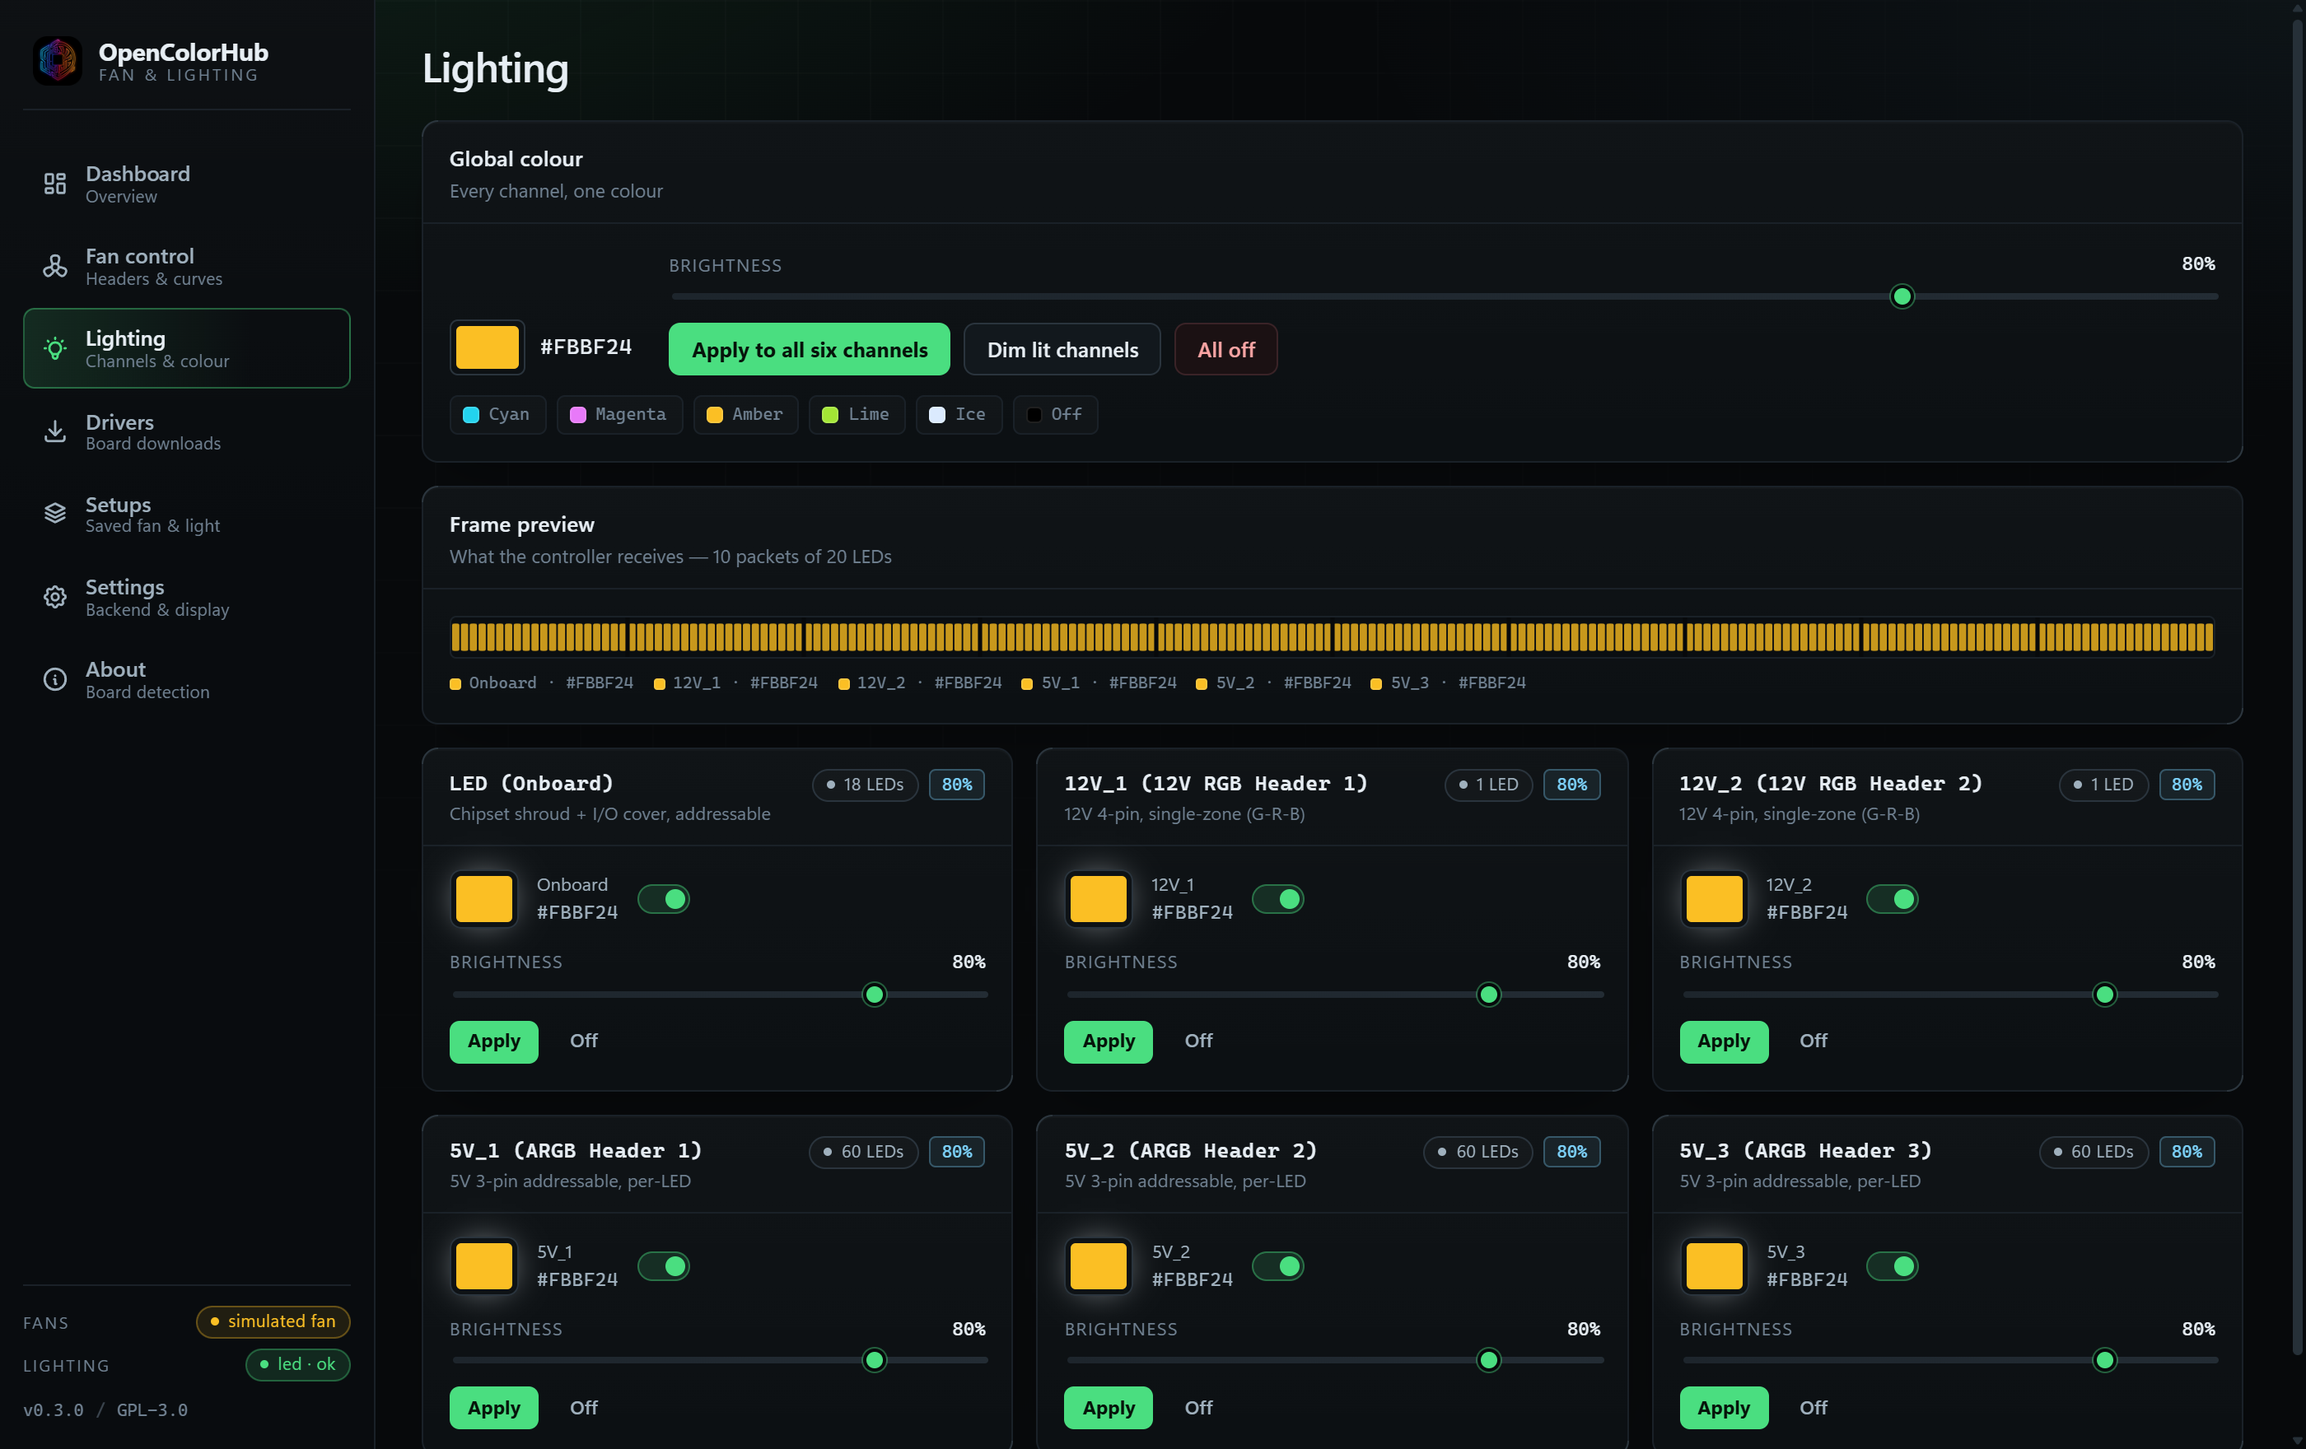
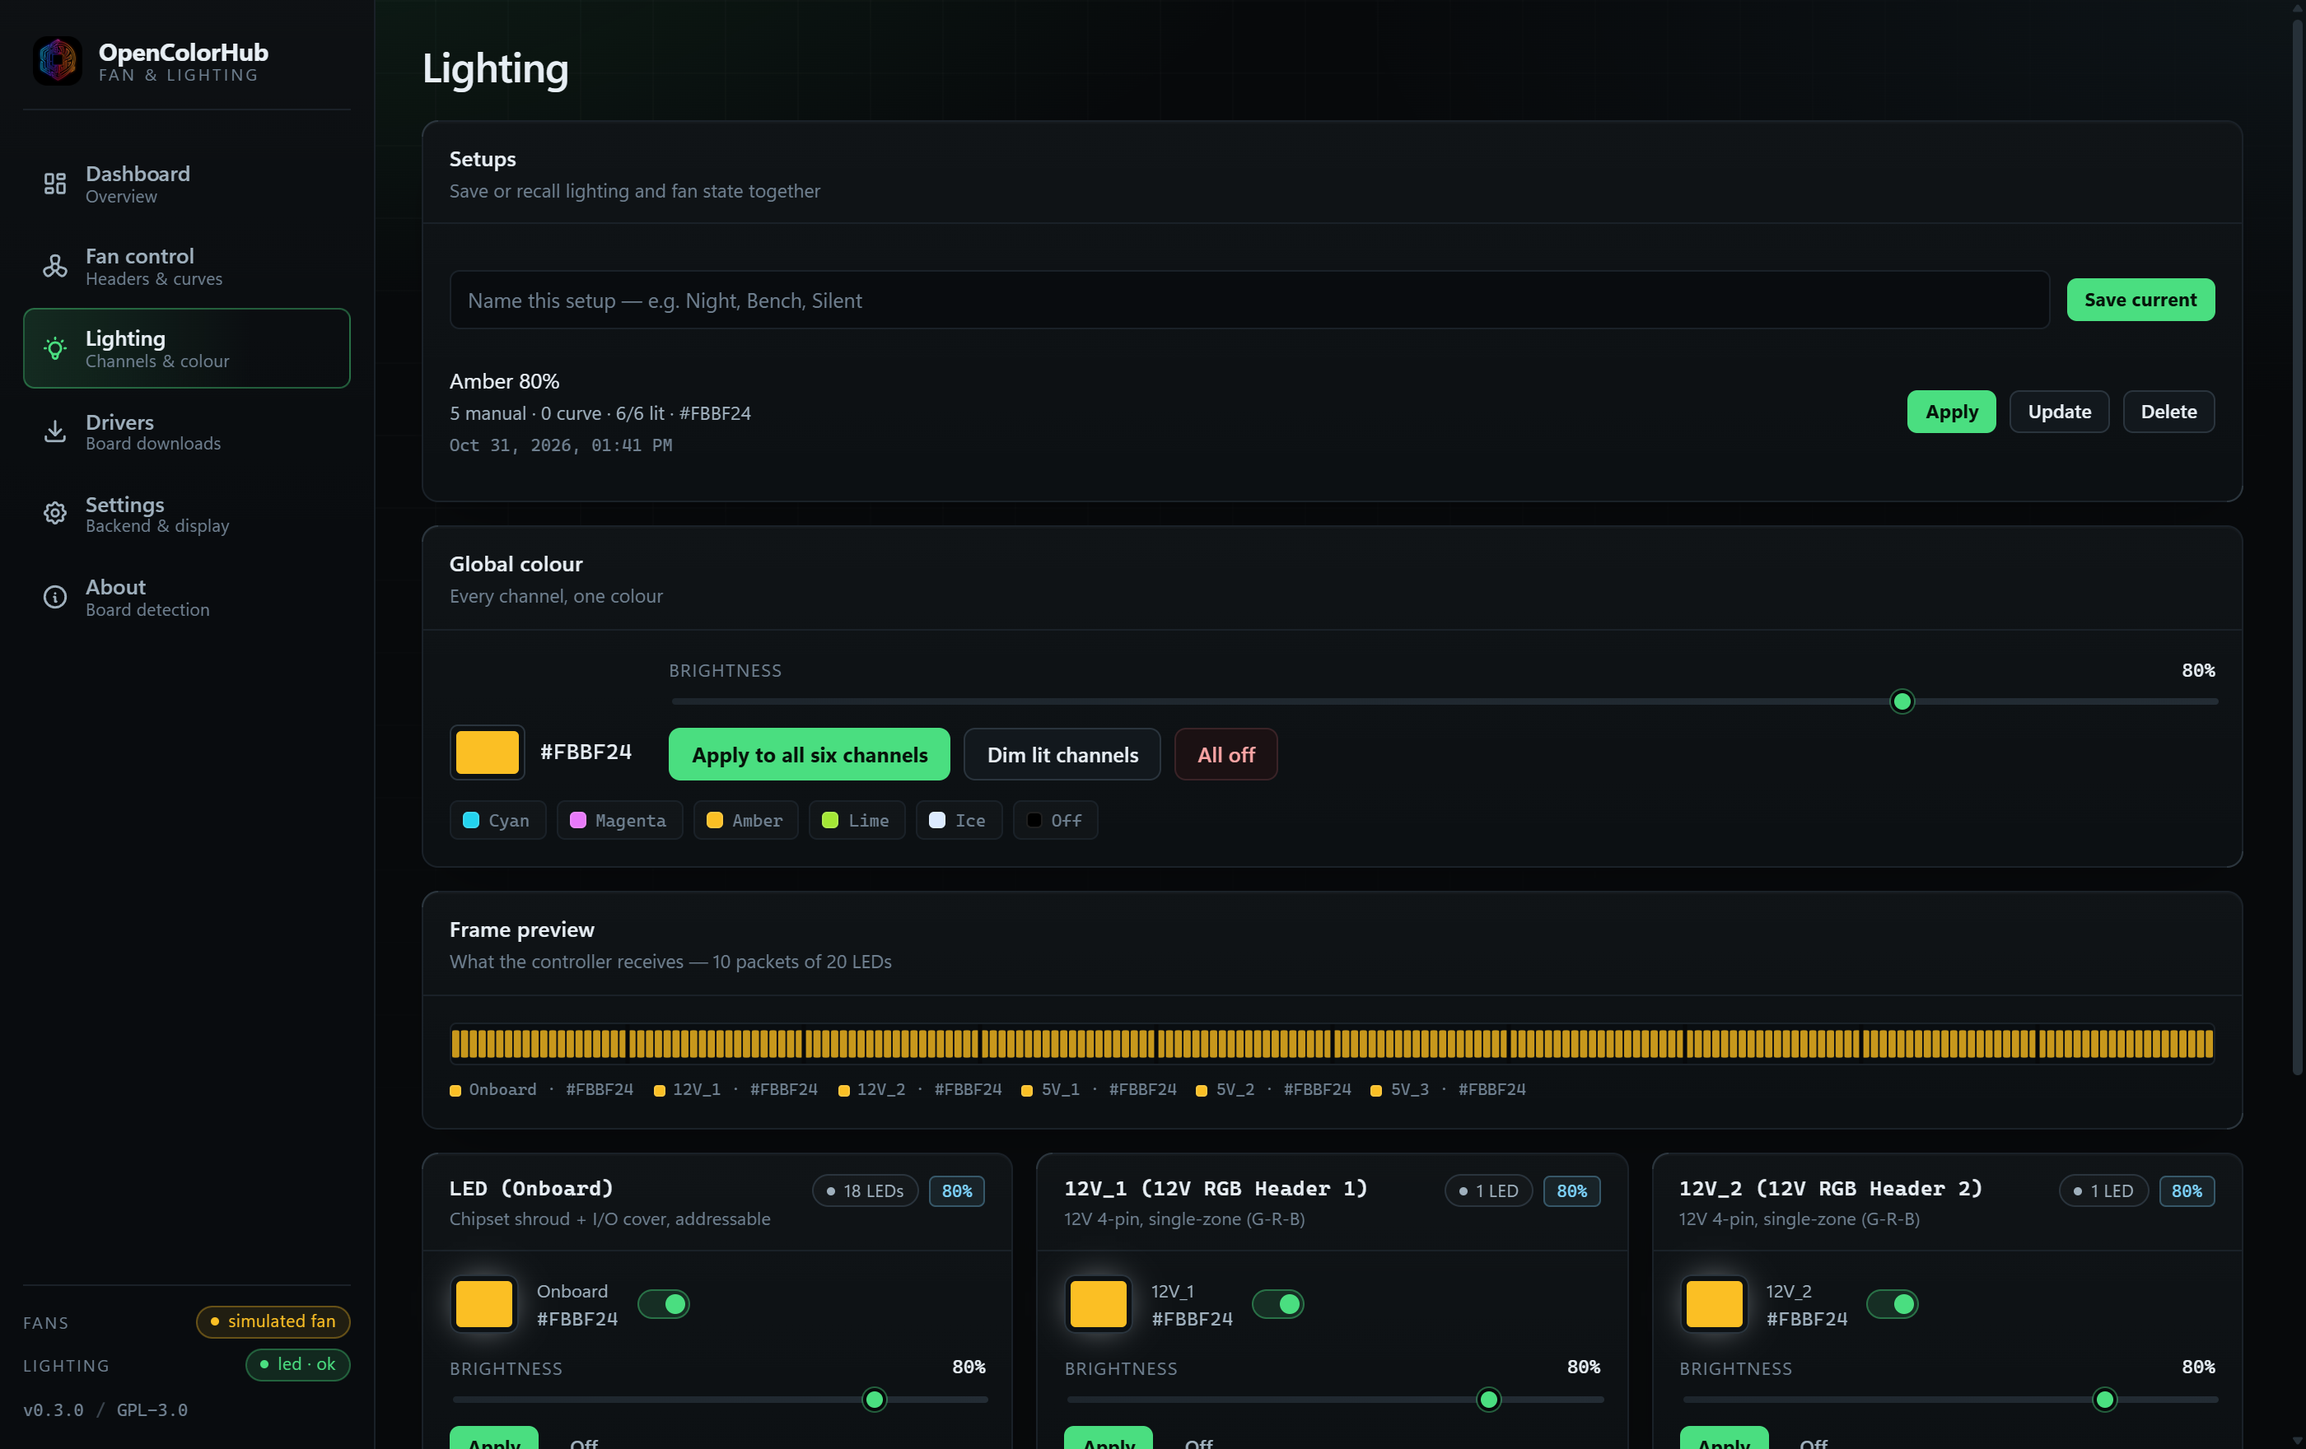
refactor(setups): move saved setups onto the Fan control and Lighting screens
A setup spans fans and lighting, so a screen of its own was a detour: you had to
leave the controls you were tuning to save or recall them. The panel now sits on
both screens, above their controls, with the same list on each.

- `src/components/setups-panel.ts` holds the UI once; both screens mount it.
  The subtitle names the local half so it does not read as a stray global panel.
- The standalone screen, its rail entry, route and icon are gone.
- Panels sit under the header rather than at the bottom: below five fan cards the
  list was never on screen, which is the same discoverability problem as a
  separate screen with extra steps.

Applying from either screen writes both halves — that is what a setup is — so
the toast names what was written ("5 headers, 6 channels") instead of leaving it
to be discovered.

Verified on the built binary: rail reads dashboard, fans, leds, drivers,
settings, about; both screens render the panel with one saved setup; Apply from
Lighting wrote five headers and six channels.

diff --git a/src/components/setups-panel.ts b/src/components/setups-panel.ts
@@ -1,10 +1,17 @@
-/** Setups: saved fan + lighting combinations, applied in one action. */
+/**
+ * Saved setups, embedded where the state lives.
+ *
+ * A setup spans both fans and lighting, so the same panel appears on the Fan
+ * control and Lighting screens rather than on a screen of its own: from either
+ * one you can save what is running, or apply a saved combination (which writes
+ * both halves — that is what a setup is).
+ */
 
 import { api } from "../api";
 import { el } from "../dom";
-import type { Setup, SetupList, Snapshot } from "../types";
-import type { View, ViewContext } from "../view";
-import { button, emptyState, inlineNote, panel } from "../components/ui";
+import type { Setup, SetupList } from "../types";
+import type { ViewContext } from "../view";
+import { button, emptyState, inlineNote, panel } from "./ui";
 
 const hexOf = (channel: Setup["channels"][number]): string =>
   `#${channel.color.map((part) => part.toString(16).padStart(2, "0")).join("")}`;
@@ -18,15 +25,14 @@ function summarise(setup: Setup): string {
     colours.length === 0
       ? "all channels off"
       : colours.length === 1
-        ? `${colours[0].toUpperCase()}`
+        ? colours[0].toUpperCase()
         : `${colours.length} colours`;
   return `${manual} manual · ${curves} curve · ${lit.length}/${setup.channels.length} lit · ${colourText}`;
 }
 
 function stamp(ms: number): string {
   if (!ms) return "unknown date";
-  const date = new Date(ms);
-  return date.toLocaleString(undefined, {
+  return new Date(ms).toLocaleString(undefined, {
     year: "numeric",
     month: "short",
     day: "2-digit",
@@ -35,70 +41,41 @@ function stamp(ms: number): string {
   });
 }
 
-export function createSetups(ctx: ViewContext): View {
-  const root = el("div", { class: "screen" });
-  const actions = el("div", { class: "screen-actions" });
-  const head = el(
-    "div",
-    { class: "screen-head" },
-    el(
-      "div",
-      {},
-      el("h1", { class: "screen-title" }, "Setups"),
-      el(
-        "p",
-        { class: "screen-sub" },
-        "Save the current fan and lighting state, then restore it in one click.",
-      ),
-    ),
-    actions,
-  );
+export interface SetupsPanelOptions {
+  /** Emphasised half, used in the subtitle so the panel reads as local. */
+  focus: "fans" | "lighting";
+}
 
-  const notes = el("div", { class: "notice-list" });
-  const body = el("div", { class: "setups-stack" });
+/** Builds the panel; the caller appends `el` to its screen. */
+export function setupsPanel(ctx: ViewContext, options: SetupsPanelOptions): { el: HTMLElement } {
+  const root = el("div", { class: "setups-embed" });
+  const body = el("div", { class: "setups-body" });
+  const notes = el("div", { class: "setups-notes" });
 
-  // Save controls -----------------------------------------------------------------
   const nameInput = el("input", {
     class: "input setups-name",
-    id: "setup-name",
     type: "text",
     placeholder: "Name this setup — e.g. Night, Bench, Silent",
     maxlength: 48,
     "aria-label": "Setup name",
   }) as HTMLInputElement;
-  const saveButton = button("Save current state", {
+
+  const saveButton = button("Save current", {
     variant: "primary",
+    size: "sm",
     onClick: () => void save(null),
-  });
-  const savePanel = panel({
-    className: "setups-save",
-    title: "Save what is running now",
-    subtitle: "Fans (duty or curve) and every lighting channel, together.",
-    body: [
-      el("label", { class: "setups-label", for: "setup-name" }, "Setup name"),
-      el(
-        "div",
-        { class: "setups-form" },
-        nameInput,
-        saveButton,
-      ),
-    ],
   });
 
   let setups: Setup[] = [];
   let busy: string | null = null;
-  /** Row that is armed for deletion: the first click only warns. */
+  /** Row armed for deletion: the first click only warns. */
   let armed: string | null = null;
 
   function applyList(list: SetupList): void {
     setups = list.setups;
-    if (list.warning) {
-      notes.replaceChildren(
-        inlineNote(`Could not read the setups file: ${list.warning}`, "danger"),
-      );
-    } else {
-      notes.replaceChildren();
-    }
+    notes.replaceChildren(
+      list.warning ? inlineNote(`Could not read the setups file: ${list.warning}`, "danger") : "",
+    );
     render();
   }
 
@@ -111,7 +88,9 @@ export function createSetups(ctx: ViewContext): View {
   }
 
   async function save(id: string | null): Promise<void> {
-    const name = id ? setups.find((setup) => setup.id === id)?.name ?? "" : nameInput.value.trim();
+    const name = id
+      ? setups.find((setup) => setup.id === id)?.name ?? ""
+      : nameInput.value.trim();
     if (!name) {
       ctx.toast("Give the setup a name first", "warn");
       nameInput.focus();
@@ -190,6 +169,7 @@ export function createSetups(ctx: ViewContext): View {
           variant: "primary",
           size: "sm",
           disabled: working,
+          title: "Write this setup — fans and lighting — to the hardware",
           onClick: () => void apply(setup),
         }),
         button("Update", {
@@ -209,7 +189,6 @@ export function createSetups(ctx: ViewContext): View {
             } else {
               armed = setup.id;
               render();
-              // Disarm on its own, so a stray click cannot delete later.
               window.setTimeout(() => {
                 if (armed === setup.id) {
                   armed = null;
@@ -224,36 +203,39 @@ export function createSetups(ctx: ViewContext): View {
   }
 
   function render(): void {
-    body.replaceChildren(savePanel);
+    body.replaceChildren();
     saveButton.disabled = busy === "new";
 
     if (setups.length === 0) {
       body.append(
-        panel({
-          className: "setups-list",
-          title: "Saved setups",
-          body: [
-            emptyState(
-              "Nothing saved yet",
-              "Set the fans and lighting the way you like them, then save the state as a setup.",
-            ),
-          ],
-        }),
+        emptyState(
+          "Nothing saved yet",
+          "Set things the way you like them, then save the state to recall it later.",
+        ),
       );
-      return;
+    } else {
+      body.append(el("ul", { class: "setup-rows" }, ...setups.map(row)));
     }
-
-    body.append(
-      panel({
-        className: "setups-list",
-        title: "Saved setups",
-        subtitle: `${setups.length} configuration${setups.length === 1 ? "" : "s"}`,
-        body: [el("ul", { class: "setup-rows" }, ...setups.map(row))],
-      }),
-    );
   }
 
-  root.append(head, notes, body);
+  const subtitle =
+    options.focus === "fans"
+      ? "Save or recall fan and lighting state together"
+      : "Save or recall lighting and fan state together";
+
+  root.append(
+    panel({
+      className: "setups-list",
+      title: "Setups",
+      subtitle,
+      body: [
+        notes,
+        el("div", { class: "setups-form" }, nameInput, saveButton),
+        body,
+      ],
+    }),
+  );
+
   render();
   void refresh();
 
@@ -261,10 +243,5 @@ export function createSetups(ctx: ViewContext): View {
     if (event.key === "Enter") void save(null);
   });
 
-  return {
-    el: root,
-    update(_snapshot: Snapshot): void {
-      // The list is independent of telemetry; nothing to redraw per tick.
-    },
-  };
+  return { el: root };
 }

diff --git a/src/components/icons.ts b/src/components/icons.ts
@@ -40,12 +40,6 @@ const PATHS: Record<ScreenId, string[]> = {
     "M7 11l5 5l5 -5",
     "M12 4l0 12",
   ],
-  // stack-2
-  setups: [
-    "M12 4l-8 4l8 4l8 -4l-8 -4",
-    "M4 12l8 4l8 -4",
-    "M4 16l8 4l8 -4",
-  ],
   // settings
   settings: [
     "M10.325 4.317c.426 -1.756 2.924 -1.756 3.35 0a1.724 1.724 0 0 0 2.573 1.066c1.543 -.94 3.31 .826 2.37 2.37a1.724 1.724 0 0 0 1.065 2.572c1.756 .426 1.756 2.924 0 3.35a1.724 1.724 0 0 0 -1.066 2.573c.94 1.543 -.826 3.31 -2.37 2.37a1.724 1.724 0 0 0 -2.572 1.065c-.426 1.756 -2.924 1.756 -3.35 0a1.724 1.724 0 0 0 -2.573 -1.066c-1.543 .94 -3.31 -.826 -2.37 -2.37a1.724 1.724 0 0 0 -1.065 -2.572c-1.756 -.426 -1.756 -2.924 0 -3.35a1.724 1.724 0 0 0 1.066 -2.573c-.94 -1.543 .826 -3.31 2.37 -2.37c1 .608 2.296 .07 2.572 -1.065",

diff --git a/src/views/fans.ts b/src/views/fans.ts
@@ -9,6 +9,7 @@ import type { View, ViewContext } from "../view";
 import { curveEditor, type CurveEditor } from "../components/charts";
 import { button, cardHead, panel, slider, type Slider } from "../components/ui";
 import { showPawnioDialog } from "../pawnio";
+import { setupsPanel } from "../components/setups-panel";
 
 const HEADERS: { id: FanHeaderId; label: string; description: string; floor: number }[] = [
   { id: "cpu", label: "CPU_FAN", description: "CPU cooler / AIO radiator", floor: 0 },
@@ -210,6 +211,7 @@ export function createFans(ctx: ViewContext): View {
     ),
     warningSlot,
     pawnioSlot,
+    setupsPanel(ctx, { focus: "fans" }).el,
     panel({
       title: "Curve presets",
       subtitle: "Quiet, standard or full tilt",

diff --git a/src/views/leds.ts b/src/views/leds.ts
@@ -5,6 +5,7 @@ import { el, fromHex } from "../dom";
 import type { ChannelStatus, Snapshot } from "../types";
 import type { View, ViewContext } from "../view";
 import { ledStrip } from "../components/charts";
+import { setupsPanel } from "../components/setups-panel";
 import { button, cardHead, panel, pill, slider, type Slider } from "../components/ui";
 
 interface ChannelCard {
@@ -207,6 +208,7 @@ export function createLeds(ctx: ViewContext): View {
         el("h1", { class: "screen-title" }, "Lighting"),
       ),
     ),
+    setupsPanel(ctx, { focus: "lighting" }).el,
     panel({
       title: "Global colour",
       subtitle: "Every channel, one colour",

diff --git a/src/main.ts b/src/main.ts
@@ -16,14 +16,12 @@ import { createDrivers } from "./views/drivers";
 import { createFans } from "./views/fans";
 import { createLeds } from "./views/leds";
 import { createSettings } from "./views/settings";
-import { createSetups } from "./views/setups";
 
 const VIEWS: Record<ScreenId, ViewFactory> = {
   dashboard: createDashboard,
   fans: createFans,
   leds: createLeds,
   drivers: createDrivers,
-  setups: createSetups,
   settings: createSettings,
   about: createAbout,
 };
@@ -33,7 +31,6 @@ const SCREEN_ORDER: ScreenId[] = [
   "fans",
   "leds",
   "drivers",
-  "setups",
   "settings",
   "about",
 ];

diff --git a/src/components/sidebar.ts b/src/components/sidebar.ts
@@ -20,7 +20,6 @@ const NAV: { id: ScreenId; label: string; hint: string }[] = [
   { id: "fans", label: "Fan control", hint: "Headers & curves" },
   { id: "leds", label: "Lighting", hint: "Channels & colour" },
   { id: "drivers", label: "Drivers", hint: "Board downloads" },
-  { id: "setups", label: "Setups", hint: "Saved fan & light" },
   { id: "settings", label: "Settings", hint: "Backend & display" },
   { id: "about", label: "About", hint: "Board detection" },
 ];

diff --git a/src/types.ts b/src/types.ts
@@ -15,7 +15,6 @@ export type ScreenId =
   | "fans"
   | "leds"
   | "drivers"
-  | "setups"
   | "settings"
   | "about";
 

diff --git a/README.md b/README.md
@@ -41,8 +41,8 @@ simulator, both labelled. → [Platform notes](docs/PLATFORM.md)
 | **Dashboard** — gauge with session history, six live metrics, fan and channel detail | **Fan control** — per-header curves, presets, pump floor |
 | ![Lighting](docs/screenshots/leds.png) | ![Drivers](docs/screenshots/drivers.png) |
 | **Lighting** — six channels, 200-LED frame | **Drivers** — vendor downloads, nothing executed |
-| ![Setups](docs/screenshots/setups.png) | ![About](docs/screenshots/about.png) |
-| **Setups** — saved fan + lighting combinations | **About** — the board this build detected |
+| ![About](docs/screenshots/about.png) | |
+| **About** — the board this build detected | |
 
 Settings covers backend selection, elevation, units, safety confirmations, poll
 interval, startup with the OS and updates. The app lives in the tray: closing the
@@ -81,7 +81,7 @@ sudo ./target/release/opencolorhub        # or set CAP_SYS_RAWIO on the binary
 | [Board detection](docs/BOARD-DETECTION.md) | Confidence levels, sources, the hardware guard |
 | [Updates](docs/UPDATES.md) | Self-updater, release process, integrity caveats |
 | [Drivers](docs/DRIVERS.md) | Board download catalogue, URL rules, why nothing is executed |
-| [Setups](docs/SETUPS.md) | Saved fan + lighting combinations, file format, limits |
+| [Setups](docs/SETUPS.md) | Saved fan + lighting combinations (on the Fan control and Lighting screens) |
 | [NOTICE.md](NOTICE.md) | Licensing of this project and everything it embeds |
 
 ## Safety

diff --git a/docs/SETUPS.md b/docs/SETUPS.md
@@ -1,7 +1,9 @@
 # Setups
 
 A **setup** is a saved combination of fan and lighting settings you can restore
-in one click. The screen lives under **Setups** in the rail.
+in one click. The panel sits at the bottom of the **Fan control** and
+**Lighting** screens — both show the same list, because a setup spans both
+halves and saving one is a whole-machine action.
 
 ---
 
@@ -69,3 +71,5 @@ what identify them, so renaming is "save under a new name, delete the old one".
   header with an explanation rather than silently doing nothing (the same guard
   as the Fan control screen).
 - Setups are per machine. There is no export/import yet.
+- Applying from either screen writes **both** fans and lighting; there is no
+  "apply lighting only" button.
